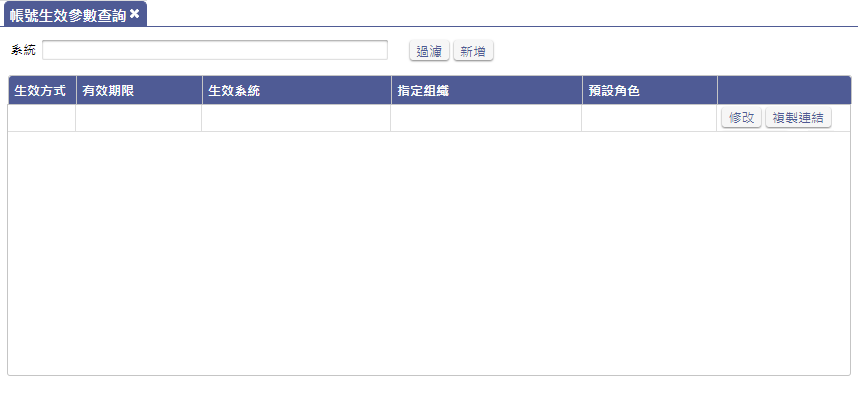
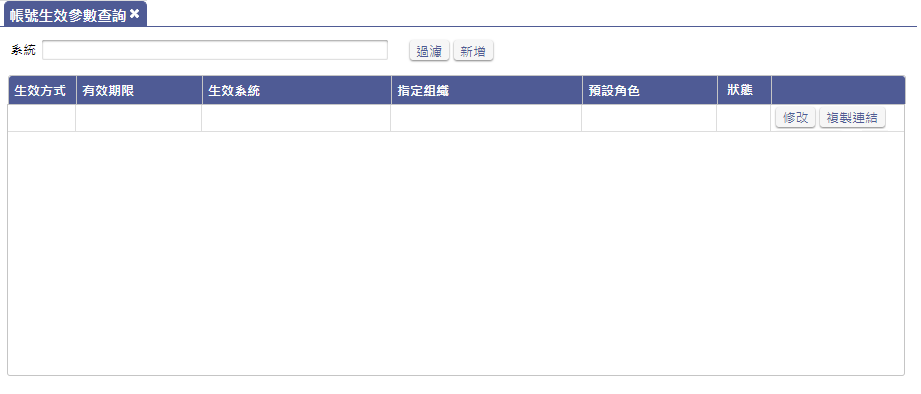
#9138 RTE_提供帳號自動生效 (SA文件)

diff --git a/8.10.2/UPDATE/ITEM_14/RTE/README.md b/8.10.2/UPDATE/ITEM_14/RTE/README.md
@@ -22,6 +22,9 @@
     * 在開放帳號申請設定中，增加下列欄位
       * 欄位.到期通知天數，預設帳號的系統使用期限到期前的第n天要通知使用者
       * 欄位.逾期可使用天數，預設帳號的系統使用期限到期後，仍可使用的天數
+    * 完整規格文件，請看: [其他參數][link_parameterothersetting]
+  * 異動介面.企業設定
+    * 增加欄位.驗證碼等待驗證時間，預設: **300**秒，最小輸入值 **60**秒
   * 新增介面.帳號生效參數查詢
     * 由Site系統服務的選單開啟
     * 可編修及瀏覽權限的角色: 企業管理員/系統管理員
@@ -68,25 +71,23 @@
     * 完整規格文件，請看: [系統申請核准設定][link_systemapplicationapproval]
   * 擴充 RTE 引擎預設排程
     * 每日檢查介面.**帳號生效參數設定**，以下條件成立時，發送通知信至系統管理員的郵件信箱
-      * 當 **有效期限** 等於 **到期日**，依 **到期日-到期通知天數** 的日期，發送系統使用期限即將到期通知信
-      * 當 **申請人數限制** 大於等於 **已申請人數**，發送系統申請人數已額滿通知信
+      * 當 **有效期限** 等於 **到期日**，依 **到期日的日期-到期通知天數** 的日期，若為今天的日期，發送系統使用期限即將到期通知信
+      * 當 **申請人數限制** 不為 0, 且 **申請人數限制** 大於等於 **已申請人數**，發送系統申請人數已額滿通知信
     * 每日檢查下列帳號資訊
-      * 檢查帳號下各系統的 **使用效期-到期通知天數** 的日期，若為今天的日期，發送各系統中使用效期即將到期的帳號清單通知信至系統管理員的郵件信箱
-      * 檢查帳號下各系統的 **使用效期-到期通知天數** 的日期，若為今天的日期，發送即將到期的系統清單至帳號的郵件信箱
-      * 檢查帳號下各系統的 **使用效期** 若為今天的日期 且 已超過**逾期可使用天數**，發送系統使用效期已到期通知至帳號的郵件信箱
+      * 檢查帳號下各系統的 **使用效期-到期通知天數的日期** 小於等於 **系統日期** 且 **使用效期** 小於 **系統日期**，發送各系統中使用效期即將到期的帳號清單通知信至系統管理員的郵件信箱
+      * 檢查帳號下各系統的 **使用效期-到期通知天數的日期** 小於等於 **系統日期** 且 **使用效期** 小於 **系統日期**，若為今天的日期，發送即將到期的系統清單至帳號的郵件信箱
+      * 檢查帳號下各系統的 **使用效期** 大於 **今天的日期** 且 **已超過逾期可使用天數**，發送系統使用效期已到期通知至帳號的郵件信箱
 * 系統(System)
   * 異動介面.RTE登入畫面
     * 突顯申請新帳號的樣式
     * 當瀏覽器的連結網址存在帳號生效參數設定的唯一號，即使Site系統服務介面.**其他參數**的欄位.**開放帳號申請**未勾選，畫面仍顯示**申請新帳號**的連結
     * 完成整規格文件，請看[RTE登入畫面][link_login]
   * 異動介面.RTE首頁
-    * 切換系統分公司的清單，增加 帳號對應系統的使用效期，已過期的系統，不顯示  
-    * 切換系統時，判斷若申請帳號是否使用介面.**帳號生效參數設定**的連結URL建立的，決定下列檢控
-      * 否，若帳號對此系統的 **有效期限已到期**，則顯示已到期訊息，且切換無效，回到上次選取的系統 
-      * 是，
-        * 若帳號對此系統的 **有效期限-到期通知天數** 小於 **有效期限**，提示即將到期訊息，仍可切換系統
-        * 若帳號對此系統的 **有效期限已到期** 且 **超到逾期可使用天數**，則顯示已到期訊息，不可切換系統
-        * 若帳號對此系統的 **有效期限已到期** 且 **未超過逾期可使用天數**，顯示已到期及剩餘可使用天數訊息，仍可切換系統
+    * 切換系統分公司的清單，增加 帳號對應系統的使用效期，已過期的系統，不顯示在清單上
+    * 切換系統時，增加判斷下列條件      
+      * 若帳號對此系統的 ***使用效期-到期通知天數的日期** 小於等於 **系統日期** 且 **使用效期** 小於 **系統日期**，提示即將到期訊息，仍可切換系統
+      * 若帳號對此系統的 **使用效期** 大於 **今天的日期** 且 **已超過逾期可使用天數**，則顯示已到期訊息，且切換無效，回到上次選取的系統 
+      * 若帳號對此系統的 **使用效期** 大於 **今天的日期** 且 **未超過逾期可使用天數**，顯示已到期及剩餘可使用天數訊息，仍可切換系統
 
 
 [作業流程]:attachment/8319_workflow.png "作業流程"
@@ -96,3 +97,4 @@
 [link_login]:{3}/RTE/SYSTEM/LOGIN/README
 [link_applyaccount]:{3}/RTE/SYSTEM/APPLYACCOUNT/README
 [link_accountindex]:{3}/RTE/SITE/accountindex/README
+[link_parameterothersetting]:{3}/RTE/SITE/parameterothersetting/README

diff --git a/8.10.2/RTE/SITE/enterprisedetail/README.md b/8.10.2/RTE/SITE/enterprisedetail/README.md
@@ -22,6 +22,11 @@
     * 欄位.企業Manager : 可空白，開窗挑選企業帳號，為該企業的企業管理員。
     * 欄位.同時最大上線人數 : 不可空白，為該企業可同時上線最大人數，預設給0，表示無上限。
     * 欄位.Google API Key : 可空白，為該企業內使用系統若有呼叫Google地圖，則會使用這把Google API Key進行開啟地圖的動作。
+    * 欄位.驗證碼等待驗證時間(秒) : 
+        * 不可空白
+        * 本欄只允輸入數字
+        * 系統預設: **300** 
+        * 檢控: 最小輸入值 **60**
     * 按鈕.儲存 : 點擊後將依據各欄位可空白否進行檢控，檢控失敗顯示錯誤訊息，若檢控成功則將表單所有資料進行儲存的動作。
     * 按鈕.放棄 : 點擊後關閉表單.企業資料。
 

diff --git a/8.10.2/RTE/SITE/parameterothersetting/README.md b/8.10.2/RTE/SITE/parameterothersetting/README.md
@@ -1,0 +1,23 @@
+### <div id="view">畫面說明</div>
+
+![表單畫面]
+
+* 本單主要在設定站台相關的參數，但為非必要設定的部分，集中放在此介面設定
+
+## <div id="object-desc">欄位說明</div>
+
+* 區塊.開放帳號申請
+    * 欄位.開放帳號申請
+        * 系統預設: 勾選
+    * 欄位.到期通知天數        
+        * 系統預設: 0
+        * 本欄只允輸入數字
+    * 欄位.逾期可使用天數
+        * 系統預設: 0
+        * 本欄只允輸入數字
+
+### <div id="action">動作流程</div>
+* <PS>待補</PS>
+
+
+[表單畫面]:attachment/parameter_other_setting.png "表單畫面"

diff --git a/8.10.2/RTE/SITE/accounteffectparamsetting/README.md b/8.10.2/RTE/SITE/accounteffectparamsetting/README.md
@@ -59,7 +59,7 @@
     * 初次儲存，產生連結唯一號為本單鍵值，並預設連結生效
 * 按鈕.重設
     * 清除已設定內容，回復本單初始畫面
-* 按鈕.連結失效/連結失效
+* 按鈕.連結生效/連結失效
     * 當連結生效，顯示 連結失效，點擊後，將本筆記錄的連結設定為失效
     * 當連結失效，顯示 連結生效，點擊後，將本筆記錄的連結設定為生效
 

diff --git a/8.10.2/RTE/SITE/_sidebar.md b/8.10.2/RTE/SITE/_sidebar.md
@@ -7,6 +7,7 @@
     * [Site管理員](siteManager.md)
     * [企業管理員](enterprisesiteManager.md)
     * [系統管理員](systemManager.md)
+* [其他參數](parameterothersetting/README.md)
 * [匯入資料](importdata/README.md)
 * [企業設定](enterpriseindex/README.md)
 * [企業資料](enterprisedetail/README.md)

diff --git a/8.10.2/RTE/SITE/accounteffectparamquery/README.md b/8.10.2/RTE/SITE/accounteffectparamquery/README.md
@@ -32,6 +32,8 @@
     * 顯示 組織名稱
 * 欄位.預設角色 
     * 顯示 角色名稱
+* 欄位.狀態
+    * 顯示 (生效 / 失效)    
 * 按鈕.修改
     * Dialog開啟介面.帳號生效參數設定，傳入駐留筆帳號生效參數資料    
 * 按鈕.複製連結: 

diff --git a/8.10.2/RTE/_sidebar.md b/8.10.2/RTE/_sidebar.md
@@ -4,4 +4,5 @@
     * [環境設定](SETTING/README.md)
     * [Site管理](SITE/README.md)
     * [系統(System)](SYSTEM/README.md)
+    * [設計規範](DESIGNRULES/README.md)
 * [IDE設計](IDE/README.md)

diff --git a/8.10.2/RTE/SITE/parameterothersetting/_sidebar.md b/8.10.2/RTE/SITE/parameterothersetting/_sidebar.md
@@ -1,0 +1,6 @@
+# 其他參數
+* [上一頁](../README.md)
+* [畫面說明](README.md#view)
+* [欄位說明](README.md#object-desc)
+* [動作流程](README.md#action)
+* [history](history.md)

diff --git a/8.10.2/RTE/SITE/parameterothersetting/history.md b/8.10.2/RTE/SITE/parameterothersetting/history.md
@@ -1,0 +1,11 @@
+變更記錄
+===
+| 版本 |
+| :---: |
+| [8.10.2](#v8_10_2) |
+
+***
+### <a id='v8_10_2'></a>8.10.2
+
+
+* added 佩玲 2022/10/14 #8319

diff --git a/8.10.2/RTE/DESIGNRULES/README.md b/8.10.2/RTE/DESIGNRULES/README.md
@@ -1,0 +1,6 @@
+### <div id="view-design-rules">介面設計規範</div>
+
+* 字型: Arial
+* 字型大小: 13px
+* 版面皆支援自動縮放效果
+

diff --git a/8.10.2/RTE/DESIGNRULES/_sidebar.md b/8.10.2/RTE/DESIGNRULES/_sidebar.md
@@ -1,0 +1,3 @@
+# 設計規範
+* [上一頁](../README.md)
+* [介面設計規範](README.md#view-design-rules)
